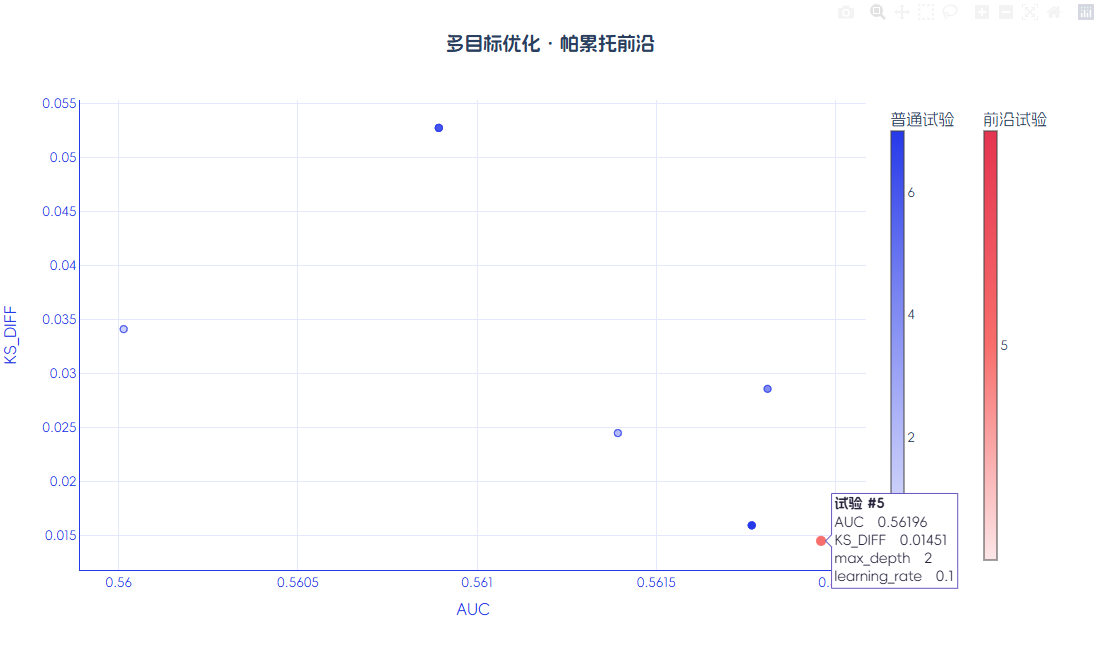
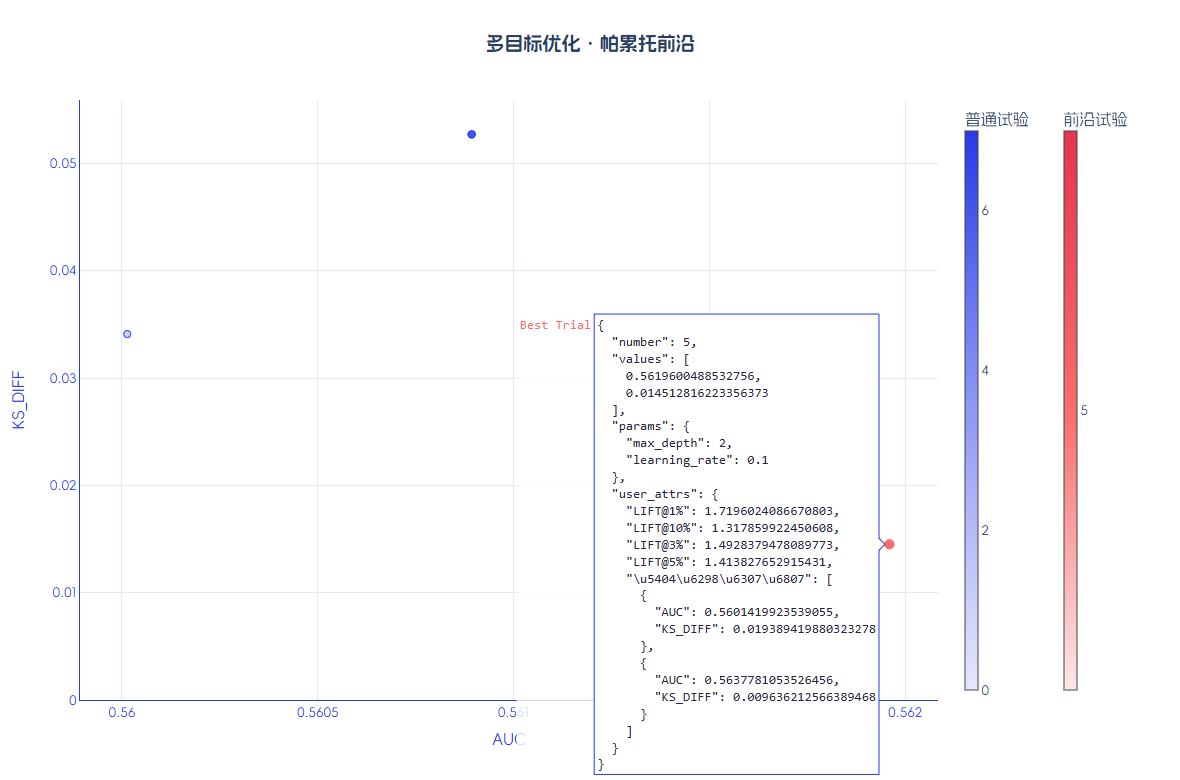
fix: 完整保留 Optuna Pareto 悬浮信息并优化展示样式

diff --git a/hscredit/core/models/tuning/visualization.py b/hscredit/core/models/tuning/visualization.py
@@ -75,6 +75,9 @@ def _style_plotly(figure, name):
         hoverlabel=dict(bgcolor="white", bordercolor=primary, font=dict(family=family, size=sizes["tick"])),
         paper_bgcolor="white", plot_bgcolor="white", colorway=palette,
     )
+    if name == "plot_pareto_front":
+        # Optuna 的多行试验详情沿用原生 text 和 hovertemplate。
+        figure.update_layout(hoverlabel=dict(align="left", font=dict(family=f"Consolas, {family}", color="#29243D")))
     blue = get_palette("blue")
     axis = dict(
         showline=True, linecolor=primary, color=primary,
